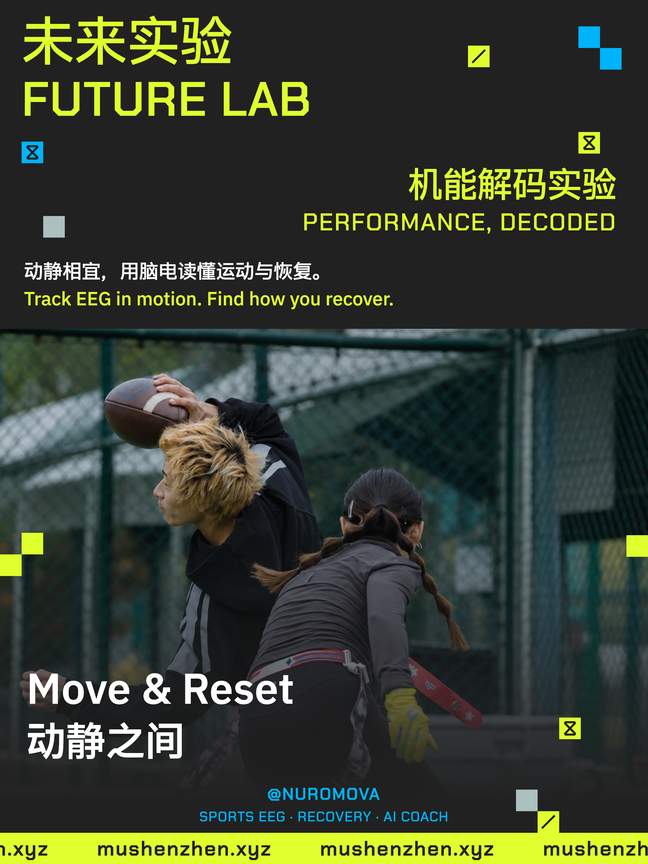
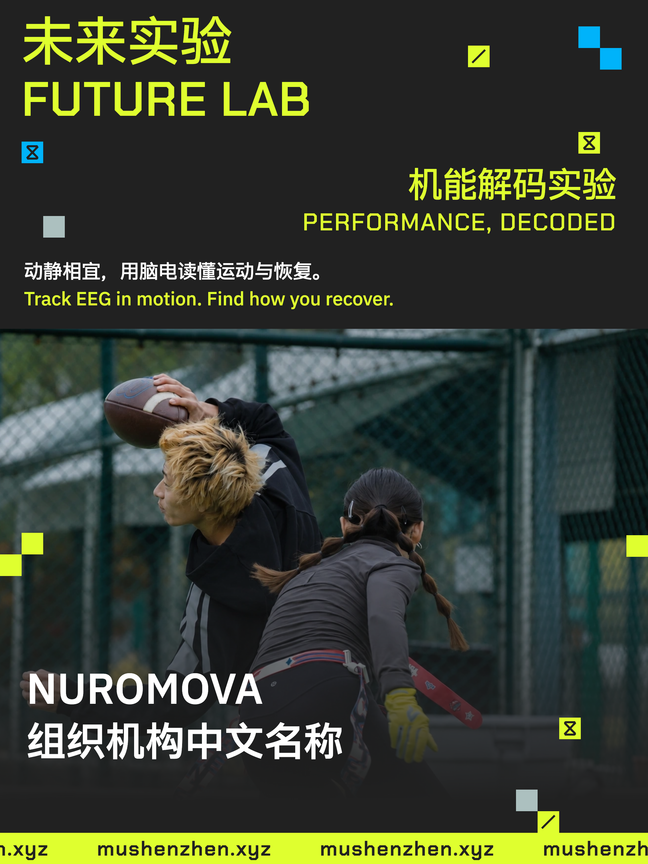
Align Future Lab template with seven event and organizer inputs

Changed region(s): [[0.0309, 0.7812, 0.5247, 0.875], [0.3086, 0.9062, 0.7099, 0.9688]]

diff --git a/templates/future-lab/style.css b/templates/future-lab/style.css
@@ -2,4 +2,4 @@
 @font-face{font-family:Plex;src:url('assets/IBMPlexSansSC-SemiBold.woff2');font-weight:600}
 @font-face{font-family:Chakra;src:url('assets/ChakraPetch-Medium.ttf');font-weight:500}
 @font-face{font-family:Chakra;src:url('assets/ChakraPetch-SemiBold.ttf');font-weight:600}
-*{box-sizing:border-box}body{margin:0;background:#30302d;color:#dfff2f;font-family:Plex,sans-serif}.toolbar{height:56px;padding:0 24px;display:flex;align-items:center;justify-content:space-between;font-size:13px}.toolbar button{border:1px solid #dfff2f;background:none;color:#dfff2f;padding:7px 12px;cursor:pointer}.stage{position:relative;margin:0 auto 28px}.poster{width:1080px;height:1440px;position:relative;overflow:hidden;background:var(--background,#212121);transform-origin:top left}.photo{position:absolute;left:0;top:548px;width:1080px;height:840px}.photo img{display:block;width:100%;height:100%;object-fit:cover}.shade{position:absolute;left:0;top:548px;width:1080px;height:840px;background:linear-gradient(to bottom,rgba(33,33,33,0) 22%,rgba(33,33,33,.2) 48%,#212121 94%)}.field{position:absolute;display:flex;align-items:center;white-space:nowrap;line-height:1.2}.field>span{display:block;flex-shrink:0;white-space:pre}.seriesZh{font:500 88px/1.1 Plex}.seriesEn{font:600 80px/1.1 Chakra,Plex,sans-serif;letter-spacing:1px}.experimentZh{font:500 58px/1.2 Plex;justify-content:flex-end}.experimentEn{font:500 40px/1.2 Chakra,Plex,sans-serif;letter-spacing:2px;justify-content:flex-end}.descriptionZh{font:500 32px/1.2 Plex;color:var(--white)}.descriptionEn{font:500 30px/1.2 Plex}.projectEn{font:600 68px/1.2 Plex;color:var(--white)}.projectZh{font:600 66px/1.2 Plex;color:var(--white)}.creditHandle{font:600 28px/1.2 Chakra,Plex,sans-serif;letter-spacing:1.6px;color:var(--blue);justify-content:center}.creditTags{font:500 23px/1.2 Chakra,Plex,sans-serif;letter-spacing:1px;color:var(--blue);justify-content:center}.decorations{position:absolute;inset:0;pointer-events:none}.tile{position:absolute;width:36px;height:36px}.tile svg{position:absolute;width:24px;height:24px;left:6px;top:6px;fill:#212121}footer{position:absolute;left:0;top:1388px;width:1080px;height:52px;background:var(--green);overflow:hidden;color:#212121}.footer-track{display:flex;align-items:center;gap:80px;height:100%;width:max-content;transform:translateX(-210px);font:600 34px/1 Chakra;letter-spacing:2px}.footer-track span{white-space:nowrap}.grid-overlay{position:absolute;inset:0;display:none;pointer-events:none;background:repeating-linear-gradient(0deg,transparent 0,transparent 35px,#ff785744 35px,#ff785744 36px),repeating-linear-gradient(90deg,transparent 0,transparent 35px,#ff785744 35px,#ff785744 36px)}.show-grid .grid-overlay{display:block}body.export .toolbar{display:none}body.export .stage{margin:0}
+*{box-sizing:border-box}body{margin:0;background:#30302d;color:#dfff2f;font-family:Plex,sans-serif}.toolbar{height:56px;padding:0 24px;display:flex;align-items:center;justify-content:space-between;font-size:13px}.toolbar button{border:1px solid #dfff2f;background:none;color:#dfff2f;padding:7px 12px;cursor:pointer}.stage{position:relative;margin:0 auto 28px}.poster{width:1080px;height:1440px;position:relative;overflow:hidden;background:var(--background,#212121);transform-origin:top left}.photo{position:absolute;left:0;top:548px;width:1080px;height:840px}.photo img{display:block;width:100%;height:100%;object-fit:cover}.shade{position:absolute;left:0;top:548px;width:1080px;height:840px;background:linear-gradient(to bottom,rgba(33,33,33,0) 22%,rgba(33,33,33,.2) 48%,#212121 94%)}.field{position:absolute;display:flex;align-items:center;white-space:nowrap;line-height:1.2}.field>span{display:block;flex-shrink:0;white-space:pre}.seriesZh{font:500 88px/1.1 Plex}.seriesEn{font:600 80px/1.1 Chakra,Plex,sans-serif;letter-spacing:1px}.eventZh{font:500 58px/1.2 Plex;justify-content:flex-end}.eventEn{font:500 40px/1.2 Chakra,Plex,sans-serif;letter-spacing:2px;justify-content:flex-end}.descriptionZh{font:500 32px/1.2 Plex;color:var(--white)}.descriptionEn{font:500 30px/1.2 Plex}.organizerEn{font:600 68px/1.2 Plex;color:var(--white)}.organizerZh{font:600 66px/1.2 Plex;color:var(--white)}.decorations{position:absolute;inset:0;pointer-events:none}.tile{position:absolute;width:36px;height:36px}.tile svg{position:absolute;width:24px;height:24px;left:6px;top:6px;fill:#212121}footer{position:absolute;left:0;top:1388px;width:1080px;height:52px;background:var(--green);overflow:hidden;color:#212121}.footer-track{display:flex;align-items:center;gap:80px;height:100%;width:max-content;transform:translateX(-210px);font:600 34px/1 Chakra;letter-spacing:2px}.footer-track span{white-space:nowrap}.grid-overlay{position:absolute;inset:0;display:none;pointer-events:none;background:repeating-linear-gradient(0deg,transparent 0,transparent 35px,#ff785744 35px,#ff785744 36px),repeating-linear-gradient(90deg,transparent 0,transparent 35px,#ff785744 35px,#ff785744 36px)}.show-grid .grid-overlay{display:block}body.export .toolbar{display:none}body.export .stage{margin:0}

diff --git a/templates/future-lab/data.js b/templates/future-lab/data.js
@@ -1,1 +1,1 @@
-window.POSTER_DATA={"content":{"image":{"src":"assets/sample-photo.webp","position":"center"},"experiment":{"zh":"机能解码实验","en":"PERFORMANCE, DECODED"},"description":{"zh":"动静相宜，用脑电读懂运动与恢复。","en":"Track EEG in motion. Find how you recover."},"project":{"en":"Move & Reset","zh":"动静之间"},"credit":{"handle":"@NUROMOVA","tags":["SPORTS EEG","RECOVERY","AI COACH"]},"metadata":{"photoNote":"从用户参考海报中提取并经AI清理的示例照片；非相机原片。","copyNote":"文案来自用户参考图，仅补充英文句号后的空格。"}},"layout":{"width":1080,"height":1440,"unit":4,"colors":{"background":"#212121","green":"#DFFF2F","blue":"#00B3FA","muted":"#ACC0BF","white":"#FFFFFF"},"photo":{"x":0,"y":548,"width":1080,"height":840},"fields":{"seriesZh":{"x":36,"y":16,"width":680,"height":104},"seriesEn":{"x":36,"y":120,"width":680,"height":92},"experimentZh":{"x":400,"y":268,"width":628,"height":80},"experimentEn":{"x":220,"y":344,"width":808,"height":52},"descriptionZh":{"x":40,"y":428,"width":1000,"height":48},"descriptionEn":{"x":40,"y":476,"width":1000,"height":44},"projectEn":{"x":44,"y":1104,"width":860,"height":88},"projectZh":{"x":44,"y":1192,"width":840,"height":88},"creditHandle":{"x":120,"y":1304,"width":840,"height":40},"creditTags":{"x":120,"y":1344,"width":840,"height":36}},"decorations":[{"x":964,"y":44,"color":"blue"},{"x":1000,"y":80,"color":"blue"},{"x":780,"y":76,"color":"green","symbol":"slash"},{"x":36,"y":236,"color":"blue","symbol":"hourglass"},{"x":964,"y":220,"color":"green","symbol":"hourglass"},{"x":72,"y":360,"color":"muted"},{"x":36,"y":888,"color":"green"},{"x":0,"y":924,"color":"green"},{"x":1044,"y":892,"color":"green"},{"x":932,"y":1196,"color":"green","symbol":"hourglass"},{"x":860,"y":1316,"color":"muted"},{"x":896,"y":1352,"color":"green","symbol":"slash"}]},"symbols":{"slash":"\u003cpath d=\"M185.285 12L132 65.2854L135.857 69.1427L137.786 71.0713L191.071 17.786L189.143 15.8573L185.285 12Z\" fill=\"#212121\"/>","hourglass":"\u003cpath d=\"M254.006 69.9991V62.181H240.499L278 22.1928L273.4 14H254.006V21.8194H267.482L230 61.7864L234.554 69.9991H254.006Z\" fill=\"#212121\"/>\u003cpath d=\"M269.745 70C276.342 69.9998 279.699 62.2775 275.117 57.6578L256.89 39.284L251.121 44.7181L268.445 62.1819L254.006 62.181V69.9991L269.745 70Z\" fill=\"#212121\"/>\u003cpath d=\"M256.89 39.2821L239.567 21.8183L254.006 21.8194V14L238.266 14.0002C231.669 14.0006 228.314 21.7227 232.896 26.3423L251.121 44.7181L256.89 39.2821Z\" fill=\"#212121\"/>"}};
+window.POSTER_DATA={"content":{"image":{"src":"assets/sample-photo.webp","position":"center"},"event":{"zh":"机能解码实验","en":"PERFORMANCE, DECODED"},"description":{"zh":"动静相宜，用脑电读懂运动与恢复。","en":"Track EEG in motion. Find how you recover."},"organizer":{"zh":"组织机构中文名称","en":"NUROMOVA"},"metadata":{"photoNote":"由用户参考图经AI清理得到的演示素材，非相机原片。","copyNote":"活动名与介绍、机构英文名来自参考图；机构中文名为占位文字，需替换为正式名称。"}},"layout":{"width":1080,"height":1440,"unit":4,"colors":{"background":"#212121","green":"#DFFF2F","blue":"#00B3FA","muted":"#ACC0BF","white":"#FFFFFF"},"photo":{"x":0,"y":548,"width":1080,"height":840},"fields":{"seriesZh":{"x":36,"y":16,"width":680,"height":104},"seriesEn":{"x":36,"y":120,"width":680,"height":92},"eventZh":{"x":400,"y":268,"width":628,"height":80},"eventEn":{"x":220,"y":344,"width":808,"height":52},"descriptionZh":{"x":40,"y":428,"width":1000,"height":48},"descriptionEn":{"x":40,"y":476,"width":1000,"height":44},"organizerEn":{"x":44,"y":1104,"width":860,"height":88},"organizerZh":{"x":44,"y":1192,"width":840,"height":88}},"decorations":[{"x":964,"y":44,"color":"blue"},{"x":1000,"y":80,"color":"blue"},{"x":780,"y":76,"color":"green","symbol":"slash"},{"x":36,"y":236,"color":"blue","symbol":"hourglass"},{"x":964,"y":220,"color":"green","symbol":"hourglass"},{"x":72,"y":360,"color":"muted"},{"x":36,"y":888,"color":"green"},{"x":0,"y":924,"color":"green"},{"x":1044,"y":892,"color":"green"},{"x":932,"y":1196,"color":"green","symbol":"hourglass"},{"x":860,"y":1316,"color":"muted"},{"x":896,"y":1352,"color":"green","symbol":"slash"}]},"symbols":{"slash":"\u003cpath d=\"M185.285 12L132 65.2854L135.857 69.1427L137.786 71.0713L191.071 17.786L189.143 15.8573L185.285 12Z\" fill=\"#212121\"/>","hourglass":"\u003cpath d=\"M254.006 69.9991V62.181H240.499L278 22.1928L273.4 14H254.006V21.8194H267.482L230 61.7864L234.554 69.9991H254.006Z\" fill=\"#212121\"/>\u003cpath d=\"M269.745 70C276.342 69.9998 279.699 62.2775 275.117 57.6578L256.89 39.284L251.121 44.7181L268.445 62.1819L254.006 62.181V69.9991L269.745 70Z\" fill=\"#212121\"/>\u003cpath d=\"M256.89 39.2821L239.567 21.8183L254.006 21.8194V14L238.266 14.0002C231.669 14.0006 228.314 21.7227 232.896 26.3423L251.121 44.7181L256.89 39.2821Z\" fill=\"#212121\"/>"}};

diff --git a/templates/future-lab/index.html b/templates/future-lab/index.html
@@ -1,1 +1,1 @@
-<!doctype html><html lang="zh-CN"><head><meta charset="utf-8"><meta name="viewport" content="width=device-width,initial-scale=1"><title>未来实验 · FUTURE LAB</title><link rel="stylesheet" href="style.css"></head><body><nav class="toolbar"><span>FUTURE LAB · 配置驱动模板</span><button id="grid-toggle">显示网格</button></nav><main class="stage"><article class="poster"><div class="photo"><img alt="项目示例照片"></div><div class="shade"></div><div class="decorations" aria-hidden="true"></div><div class="field seriesZh"><span>未来实验</span></div><div class="field seriesEn"><span>FUTURE LAB</span></div><div class="field experimentZh"><span></span></div><div class="field experimentEn"><span></span></div><div class="field descriptionZh"><span></span></div><div class="field descriptionEn"><span></span></div><div class="field projectEn"><span></span></div><div class="field projectZh"><span></span></div><div class="field creditHandle"><span></span></div><div class="field creditTags"><span></span></div><footer><div class="footer-track" aria-label="mushenzhen.xyz"><span>mushenzhen.xyz</span><span>mushenzhen.xyz</span><span>mushenzhen.xyz</span><span>mushenzhen.xyz</span><span>mushenzhen.xyz</span></div></footer><div class="grid-overlay" aria-hidden="true"></div></article></main><script src="data.js"></script><script src="app.js"></script></body></html>
+<!doctype html><html lang="zh-CN"><head><meta charset="utf-8"><meta name="viewport" content="width=device-width,initial-scale=1"><title>未来实验 · FUTURE LAB</title><link rel="stylesheet" href="style.css"></head><body><nav class="toolbar"><span>FUTURE LAB · 配置驱动模板</span><button id="grid-toggle">显示网格</button></nav><main class="stage"><article class="poster"><div class="photo"><img alt="项目示例照片"></div><div class="shade"></div><div class="decorations" aria-hidden="true"></div><div class="field seriesZh"><span>未来实验</span></div><div class="field seriesEn"><span>FUTURE LAB</span></div><div class="field eventZh"><span></span></div><div class="field eventEn"><span></span></div><div class="field descriptionZh"><span></span></div><div class="field descriptionEn"><span></span></div><div class="field organizerEn"><span></span></div><div class="field organizerZh"><span></span></div><footer><div class="footer-track" aria-label="mushenzhen.xyz"><span>mushenzhen.xyz</span><span>mushenzhen.xyz</span><span>mushenzhen.xyz</span><span>mushenzhen.xyz</span><span>mushenzhen.xyz</span></div></footer><div class="grid-overlay" aria-hidden="true"></div></article></main><script src="data.js"></script><script src="app.js"></script></body></html>

diff --git a/templates/future-lab/app.js b/templates/future-lab/app.js
@@ -1,7 +1,7 @@
 const {content,layout,symbols}=window.POSTER_DATA;
 const poster=document.querySelector('.poster'),stage=document.querySelector('.stage');
 for(const [key,value] of Object.entries(layout.colors))poster.style.setProperty('--'+key,value);
-const fields={experimentZh:content.experiment.zh,experimentEn:content.experiment.en,descriptionZh:content.description.zh,descriptionEn:content.description.en,projectEn:content.project.en,projectZh:content.project.zh,creditHandle:content.credit.handle,creditTags:content.credit.tags.join(' · ')};
+const fields={eventZh:content.event.zh,eventEn:content.event.en,descriptionZh:content.description.zh,descriptionEn:content.description.en,organizerZh:content.organizer.zh,organizerEn:content.organizer.en};
 for(const [name,box] of Object.entries(layout.fields)){const node=document.querySelector('.'+name);Object.assign(node.style,{left:box.x+'px',top:box.y+'px',width:box.width+'px',height:box.height+'px'});if(name in fields)node.firstElementChild.textContent=fields[name];}
 for(const node of document.querySelectorAll('.photo,.shade')){const b=layout.photo;Object.assign(node.style,{left:b.x+'px',top:b.y+'px',width:b.width+'px',height:b.height+'px'});}
 const image=document.querySelector('.photo img');image.src=content.image.src;image.style.objectPosition=content.image.position||'center';

diff --git a/templates/future-lab/RULES.md b/templates/future-lab/RULES.md
@@ -2,7 +2,7 @@
 
 ## 固定部分
 
-固定“未来实验 / FUTURE LAB”、照片渐变、像素方块、斜线、沙漏和底部重复的mushenzhen.xyz。参考图照片右上角的项目Logo不进入模板。
+固定“未来实验 / FUTURE LAB”、照片渐变、像素方块、斜线、沙漏和底部重复的mushenzhen.xyz。右上活动名和照片上的组织机构名均为可变项。参考图照片右上角的项目Logo不进入模板。
 
 颜色：背景#212121、荧光绿#DFFF2F、蓝色#00B3FA、灰绿#ACC0BF、白色#FFFFFF。色值作用域为本模板。
 
@@ -13,20 +13,19 @@
 | 内容 | 字体与字重 | 字号 | 对齐 |
 | --- | --- | --- | --- |
 | 固定系列中文 / 英文 | Plex Medium 500 / Chakra SemiBold 600 | 88 / 80 | 左 |
-| 实验中文 / 英文名称 | Plex Medium 500 / Chakra Medium 500 | 58 / 40 | 右 |
+| 活动中文 / 英文名称 | Plex Medium 500 / Chakra Medium 500 | 58 / 40 | 右 |
 | 中文 / 英文介绍 | Plex Medium 500 | 32 / 30 | 左 |
-| 照片上英文 / 中文项目标题 | Plex SemiBold 600 | 68 / 66 | 左，英在上中在下 |
-| 账号 / 标签 | Chakra SemiBold 600 / Medium 500 | 28 / 23 | 居中 |
+| 照片上英文 / 中文组织机构名 | Plex SemiBold 600 | 68 / 66 | 左，英在上中在下 |
 
-Plex指IBM Plex Sans SC，Chakra指Chakra Petch。角色分配按这张参考图重建，不将其他模板的字号和字重机械套入。英文结构字体遇到中文署名时使用包内Plex作回退。
+Plex指IBM Plex Sans SC，Chakra指Chakra Petch。角色分配按这张参考图重建，不将其他模板的字号和字重机械套入。所有组织机构名称使用包内Plex，不沿用原账号或标签的蓝色小字。
 
-所有可变文案为单行，按实际显示宽度检查，不限制统一字数。长名称与介绍先提炼重点，保留准确项目身份和必要信息；不缩字号、压字宽或加入省略号。标签1–5项，也受实际宽度限制。文字不能碰到方块或符号。
+所有可变文案为单行，按实际显示宽度检查，不限制统一字数。长活动名与介绍先提炼重点；组织机构名保留准确拼写，必要时采用用户确认的正式简称；不缩字号、压字宽或加入省略号。本模板不设置账号或标签字段。文字不能碰到方块或符号。
 
 ## 图片
 
 照片区为x=0–1080、y=548–1388。图片等比cover，position选择保留的区域；相同比例无裁切时方向参数不产生位移。竖图可能裁掉上下，横图可能裁掉左右，按目标区域比例判断。
 
-下方叠加渐变与项目标题。应优先让人物脸、手、关键设备落在清晰可见区域，避免重要内容放在底部文字及渐变后。缩略图检查主体比重，高清图检查裁切和细节。
+下方叠加渐变与组织机构名称。应优先让人物脸、手、关键设备落在清晰可见区域，避免重要内容放在组织机构文字及渐变后。缩略图检查主体比重，高清图检查裁切和细节。
 
 默认样例照片是参考图的AI清理演示素材，不是完整相机原片。正式图使用独立原始照片直接替换；未经请求不使用AI改动正式照片中的人物、产品或场景。
 
@@ -34,10 +33,14 @@ Plex指IBM Plex Sans SC，Chakra指Chakra Petch。角色分配按这张参考图
 
 先读本次render-status.json与validation.json，再看PNG：
 
-1. 实验名称靠右、介绍靠左，项目英文在中文上方，账号和标签居中。
+1. 活动名称在右上绿色区域靠右，介绍在照片上方靠左；组织机构在照片白字区靠左，英文在中文上方。
 2. 所有文字完整、单行、字号一致，未碰装饰。
 3. 主体清晰且取景合理，白字在照片上可读。
 4. 忽略的Logo未被重新加入，系列名称、装饰和网址正确。
 5. 只有底部网址色带刻意裁切重复字样，其余文字不得被裁掉。
 
 程序检查通过后仍需看图。超过适配范围时精简文案或明确调整版式，不修改检查阈值强行通过。
+
+## 七项输入
+
+event.zh、event.en、description.zh、description.en、image.src、organizer.zh、organizer.en为业务输入。image.position与metadata仅为可选制作设置。旧experiment、project、credit配置字段已移除，请从content-template.json创建新配置。

diff --git a/templates/future-lab/README.md b/templates/future-lab/README.md
@@ -1,6 +1,6 @@
 # 未来实验 / FUTURE LAB 模板
 
-下载后让 Agent 用独立配置替换照片和文案，生成参考版式的项目海报。固定系列名称、品牌装饰和底部网址色带，忽略参考图照片右上角的项目 Logo。
+下载后让 Agent 用独立配置替换视觉图、活动名称、介绍和组织机构名称，生成参考版式的活动海报。固定“未来实验 / FUTURE LAB”、品牌装饰和底部网址色带，忽略参考图照片右上角的Logo。
 
 [Agent 规则](AGENTS.md) · [版式规则](RULES.md) · [指令示例](PROMPTS.md) · [素材说明](ASSETS.md)
 
@@ -32,20 +32,20 @@ CHROME_PATH="/Applications/Google Chrome.app/Contents/MacOS/Google Chrome" npm r
 | --- | --- |
 | image.src | 相对此模板目录的图片路径 |
 | image.position | center、top、bottom、left、right；默认center |
-| experiment.zh / en | 右上方的中英文实验名称 |
-| description.zh / en | 照片上方的中英文一句话介绍 |
-| project.en / zh | 照片下方白色项目标题，英文在上、中文在下 |
-| credit.handle | 下方蓝色项目账号或署名，是否含@由配置决定 |
-| credit.tags | 1–5项短标签数组，自动用“ · ”连接 |
-| metadata | 来源或备注对象，不显示在海报上，可省略 |
+| event.zh / en | 活动名称中文 / 英文，对应右上绿色标题 |
+| description.zh / en | 一句话介绍中文 / 英文，对应照片上方介绍 |
+| organizer.zh / en | 活动组织机构中文 / 英文名称，对应照片上的白字，英文在上、中文在下 |
+| metadata | 可选来源或备注对象，不显示在海报上 |
+
+业务内容只有7项：活动中英文名称、一句话中英文介绍、视觉图、组织机构中英文名称。image.position是可选裁切设置，metadata是可选制作记录，均不增加文案必填项。原账号、标签、第二组项目标题不再作为输入。
 
 ```sh
-node render.cjs my-project.json exports/my-project
+node render.cjs my-event.json exports/my-event
 ```
 
 图片路径相对此模板目录，配置和输出路径相对当前终端目录；含空格的命令参数需加引号。独立导出不覆盖默认配置。
 
-所有文案保持固定字号与单行。超宽、碰到装饰或字段拼写错误会报错；先提炼关键内容，再重新导出。不能靠缩字或强制换行掩盖溢出。
+活动名称显示在右上绿色标题区；组织机构名称显示在照片白字区。所有文案保持固定字号与单行。超宽、碰到装饰或字段拼写错误会报错；先提炼关键内容，再重新导出。不能靠缩字或强制换行掩盖溢出。
 
 照片等比cover填满图片区，上方保留清晰主体，下方逐渐融入深色背景。要检查人物头部、手部或产品有没有被裁切；位置不合适时调整position或更换余量更足的原图。导出像素数不等于原图清晰度。
 
@@ -59,6 +59,6 @@ node render.cjs my-project.json exports/my-project
 
 默认渲染还会更新模板根目录的 `data.js`；之后打开 `index.html` 可查看本地预览和辅助网格。改JSON后需重新渲染，直接刷新HTML不会重新读取配置。
 
-HTML/CSS/JSON是可编辑源，本模板输出PNG和HTML，不提供完整可编辑SVG海报。默认示例照片由用户参考图经AI清理叠字和Logo得到，用于展示版式；正式制作优先提供独立原始照片。图片处理不用于新增或更改项目事实。
+HTML/CSS/JSON是可编辑源，本模板输出PNG和HTML，不提供完整可编辑SVG海报。默认示例照片由用户参考图经AI清理叠字和Logo得到，用于展示版式；正式制作优先提供独立原始照片。图片处理不用于新增或更改活动事实。默认机构英文名沿用参考图，中文名为占位文字，正式制作需填写准确名称。
 
 品牌素材及字体使用条件见[ASSETS.md](ASSETS.md)和仓库[USAGE.md](../../USAGE.md)。随作品说明注明“视觉素材来源：mushenzhen”。

diff --git a/README.md b/README.md
@@ -77,11 +77,11 @@ a city for makers
 
 <a href="templates/tomorrow-factory/examples/brown-preview.png"><img src="templates/tomorrow-factory/examples/brown-preview.png" width="300" alt="明日出厂棕色版"></a> <a href="templates/tomorrow-factory/examples/blue-preview.png"><img src="templates/tomorrow-factory/examples/blue-preview.png" width="300" alt="明日出厂蓝色版"></a>
 
-## 未来实验 · 项目海报模板
+## 未来实验 · 活动海报模板
 
 [使用说明](templates/future-lab/README.md) · [Agent规则](templates/future-lab/AGENTS.md) · [版式规则](templates/future-lab/RULES.md) · [指令示例](templates/future-lab/PROMPTS.md)
 
-替换照片、实验名称、中英文介绍、项目标题、账号与短标签，保留固定系列标识和品牌装饰。附本地字体、配置、默认演示素材与渲染脚本，导出PNG、独立HTML及预览。参考图中的项目Logo已忽略；默认照片为AI清理的演示素材，正式制作可直接替换原图。
+替换视觉图、活动中英文名称、中英文一句话介绍和组织机构中英文名称，共7项内容，保留固定系列标识和品牌装饰。附本地字体、配置、默认演示素材与渲染脚本，导出PNG、独立HTML及预览。参考图中的项目Logo已忽略；默认照片为AI清理的演示素材，正式制作可直接替换原图。
 
 <a href="templates/future-lab/examples/default-preview.png"><img src="templates/future-lab/examples/default-preview.png" width="324" alt="未来实验海报模板"></a>
 
@@ -134,6 +134,6 @@ a city for makers
 
 **视觉元素和模板允许商用，必须注明 mushenzhen。**可在作品页脚、随图发布文案或网页 credits 中署名；具体建议见 [使用说明](USAGE.md)。Logo 遵循品牌指南，不因使用素材而暗示官方背书。
 
-本仓库含 Photo Studio 源码，以及日历、City Maker 人物海报、Future, Unboxed 产品海报、明日出厂工厂参访海报和未来实验项目海报模板；模板附所用字体与 SIL OFL 许可；软件代码许可尚未指定。海报包含的照片与第三方素材不自动适用视觉元素与模板的授权。尚未指定标准公开许可证，使用要求以 USAGE.md 为准。
+本仓库含 Photo Studio 源码，以及日历、City Maker 人物海报、Future, Unboxed 产品海报、明日出厂工厂参访海报和未来实验活动海报模板；模板附所用字体与 SIL OFL 许可；软件代码许可尚未指定。海报包含的照片与第三方素材不自动适用视觉元素与模板的授权。尚未指定标准公开许可证，使用要求以 USAGE.md 为准。
 
 品牌包版本 0.1。日历模板附本届日程初稿，不构成活动确认承诺，请向主办方核对。

diff --git a/AGENT-GUIDE.md b/AGENT-GUIDE.md
@@ -25,9 +25,9 @@
 
 使用 `templates/tomorrow-factory`，先读该目录 [AGENTS.md](templates/tomorrow-factory/AGENTS.md)、[RULES.md](templates/tomorrow-factory/RULES.md) 与 [README.md](templates/tomorrow-factory/README.md)。可替换照片、工厂中文标题与英文标题，可选棕色 / 蓝色两套配色。“明日出厂 / INSIDE THE FACTORY”属于固定系列标识。新任务复制 content-template.json，优先window取景；原稿样例使用original。完整厂名放在metadata，长标题提炼真实展示文案，保持200px及单行，中文IBM Plex Sans SC Medium 500，英文Chakra Petch SemiBold 600。使用独立JSON导出PNG、SVG和预览，检查主体裁切、标题及本次render-status.json。与其他模板一样，由同事下载后用 Agent 操作，无需网页编辑器。
 
-## 未来实验 · 项目海报
+## 未来实验 · 活动海报
 
-使用 `templates/future-lab`，先读 [AGENTS.md](templates/future-lab/AGENTS.md)、[RULES.md](templates/future-lab/RULES.md) 和 [README.md](templates/future-lab/README.md)。复制独立配置，替换图片、实验名称、介绍、项目标题、账号及标签；保持固定系列标题、装饰与网址，不添加参考图中的项目Logo。默认演示图片经AI清理，正式制作使用用户原图。固定字号、单行和碰撞检查由模板实现，程序通过后仍需看图。导出PNG、独立HTML和预览，不承诺完整SVG海报。
+使用 `templates/future-lab`，先读 [AGENTS.md](templates/future-lab/AGENTS.md)、[RULES.md](templates/future-lab/RULES.md) 和 [README.md](templates/future-lab/README.md)。复制独立配置，替换视觉图、活动中英文名称、中英文一句话介绍及组织机构中英文名称，共7项；保持固定系列标题、装饰与网址，不添加参考图中的项目Logo。默认演示图片经AI清理，正式制作使用用户原图。固定字号、单行和碰撞检查由模板实现，程序通过后仍需看图。导出PNG、独立HTML和预览，不承诺完整SVG海报。
 
 ## 数据状态
 

diff --git a/templates/future-lab/AGENTS.md b/templates/future-lab/AGENTS.md
@@ -2,9 +2,9 @@
 
 先读README.md、RULES.md、content-template.json。目标是下载模板后换图和文案出图，不需要搭建编辑工具。
 
-1. 输入为照片、实验中英名、中英文介绍、项目中英标题、账号与短标签。信息足够就直接执行；不编造产品能力、活动身份或邀请关系。
+1. 业务输入严格为7项：活动名称中文、活动名称英文、一句话介绍中文、一句话介绍英文、视觉图、组织机构名称中文、组织机构名称英文。信息足够就直接执行；不编造活动事实或组织机构中文译名。
 2. 复制独立JSON，照片使用模板内相对路径。字段名严格按示例填写；metadata仅存来源备注。
-3. 固定系列标题、颜色、符号和底部网址。参考图右上角项目Logo已忽略，不新增logo字段、不重新画该Logo。
+3. 活动名映射右上绿色标题，机构名映射照片白字（英在上中在下）。固定系列标题、颜色、符号和底部网址。参考图右上角项目Logo已忽略，不新增logo字段、不重新画该Logo；不要求账号、标签或额外项目标题。
 4. 使用包内真实字体。按RULES.md的角色字号排版，保留单行；长文案提炼重点，不自行缩字号或压缩字宽。
 5. 照片等比cover。先查看原图，再选择position；看图确认脸、手或关键产品没有被裁掉，也未藏在渐变及大标题后。
 6. npm ci，首次npm run setup；之后node render.cjs <独立配置> <输出目录>。浏览器下载失败可用README中的CHROME_PATH方式。

diff --git a/templates/future-lab/PROMPTS.md b/templates/future-lab/PROMPTS.md
@@ -1,6 +1,6 @@
 # 给同事Agent的指令
 
-> 下载 https://github.com/superconcinnity/muShenzhen-Brand-Portal ，进入templates/future-lab，先读AGENTS.md与RULES.md。复制content-template.json，用我提供的照片和项目资料制作未来实验海报。实验中文名【…】、英文名【…】，中文介绍【…】、英文介绍【…】，照片上的英文标题【…】、中文标题【…】，账号【…】，标签【…】。保持固定系列标识、颜色和装饰，不加Logo。按固定字号精简长文案，检查照片裁切和文字碰撞，导出PNG、独立HTML、预览及配置。
+> 下载 https://github.com/superconcinnity/muShenzhen-Brand-Portal ，进入templates/future-lab，先读AGENTS.md与RULES.md。复制content-template.json，仅替换7项内容：活动名称中文【…】、活动名称英文【…】、一句话介绍中文【…】、一句话介绍英文【…】、视觉图【…】、组织机构名称中文【…】、组织机构名称英文【…】。活动名放右上绿色区，机构名放照片白字区（英在上中在下）。保持固定系列标识、颜色与装饰，不加Logo、账号或标签。按固定字号提炼长文案，机构名称保留准确拼写，检查裁切与文字碰撞，导出PNG、独立HTML、预览及配置。
 
 > 这张照片的重要人物被裁掉了，请根据原图调整position；保留图片比例和固定版式，不直接改动人物。
 

diff --git a/templates/future-lab/TESTING.md b/templates/future-lab/TESTING.md
@@ -1,10 +1,7 @@
-# 测试记录
+# 七项输入版测试记录
 
-14项场景均符合预期：
+配置仅包含视觉图、活动中英文名称、中英文一句话介绍、组织机构中英文名称这7项业务内容。活动名显示在右上绿色区域，机构名显示在照片白字区域，英文在上、中文在下。账号和标签已移除。
 
-- 正确出图：默认示例、短文案、竖图、中文署名、特殊标点。
-- 正确拒绝：过长实验名称、过长介绍、过长项目标题、过长账号、错误标签格式、未知Logo字段、图片字段拼写错误、缺失照片、强制换行。
+9项场景符合预期：默认示例、通用七项配置、替换机构名可正常出图；过长活动名、过长机构名、缺失机构名、旧账号配置、旧项目配置和强制换行会明确报错。
 
-同时检查字体加载、文字范围、装饰碰撞和输出尺寸。默认配置与新项目配置均在仓库包内成功导出；独立HTML移出模板目录后可以加载图片和字体，不依赖外部资源。示例标题和中文署名均使用包内字体；程序通过仍需检查照片取景。
-
-测试在macOS与本机Chrome上完成，未宣称已在Windows/Linux运行。网上竖图素材仅作本地检查，不随公开模板分发。
+检查覆盖字体、文字范围与装饰碰撞。测试在macOS及本机Chrome上完成，仍需人工检查照片裁切和机构名称准确性。

diff --git a/templates/future-lab/ASSETS.md b/templates/future-lab/ASSETS.md
@@ -6,4 +6,4 @@
 - ChakraPetch-Medium.ttf、ChakraPetch-SemiBold.ttf：来自用户本机已安装的Chakra Petch字体，许可见ChakraPetch-OFL.txt。
 - examples/default-preview.png、grid-preview.png：当前模板生成的预览。
 
-原文案来自用户参考图，英文句号后补了空格。参考图片未用于推导产品事实或活动确认。品牌使用要求见仓库USAGE.md；字体与照片按各自授权处理。
+活动示例文案和机构英文名来自用户参考图，英文句号后补了空格；机构中文名为占位文字，不是编造的正式译名。参考图片未用于推导产品事实或活动确认。品牌使用要求见仓库USAGE.md；字体与照片按各自授权处理。
